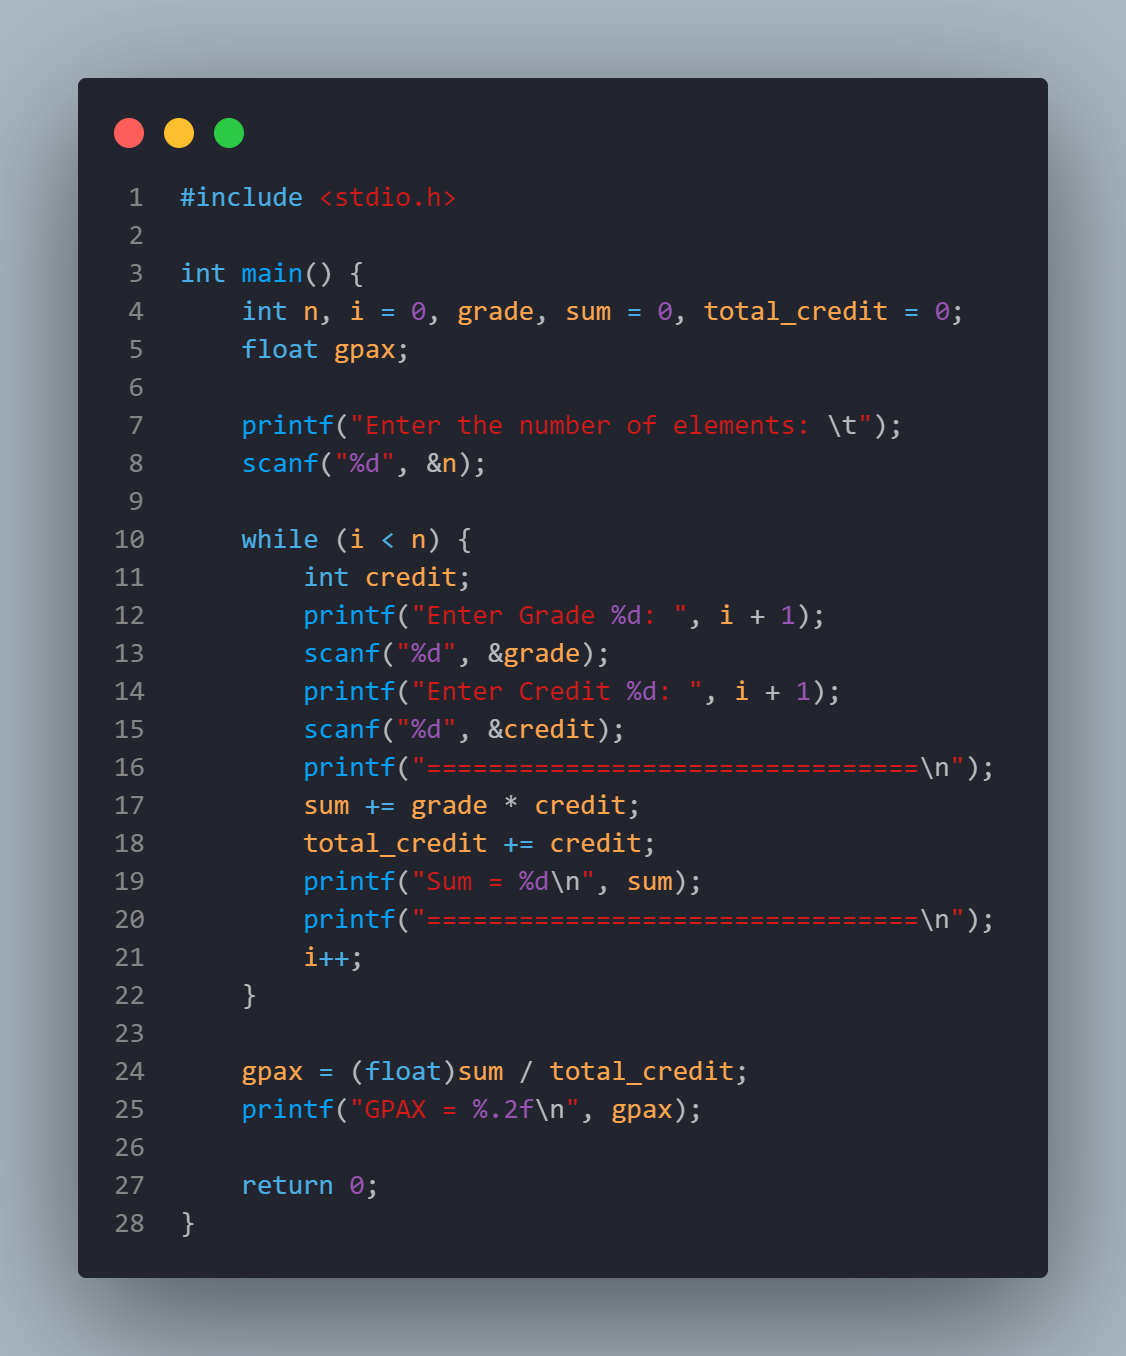
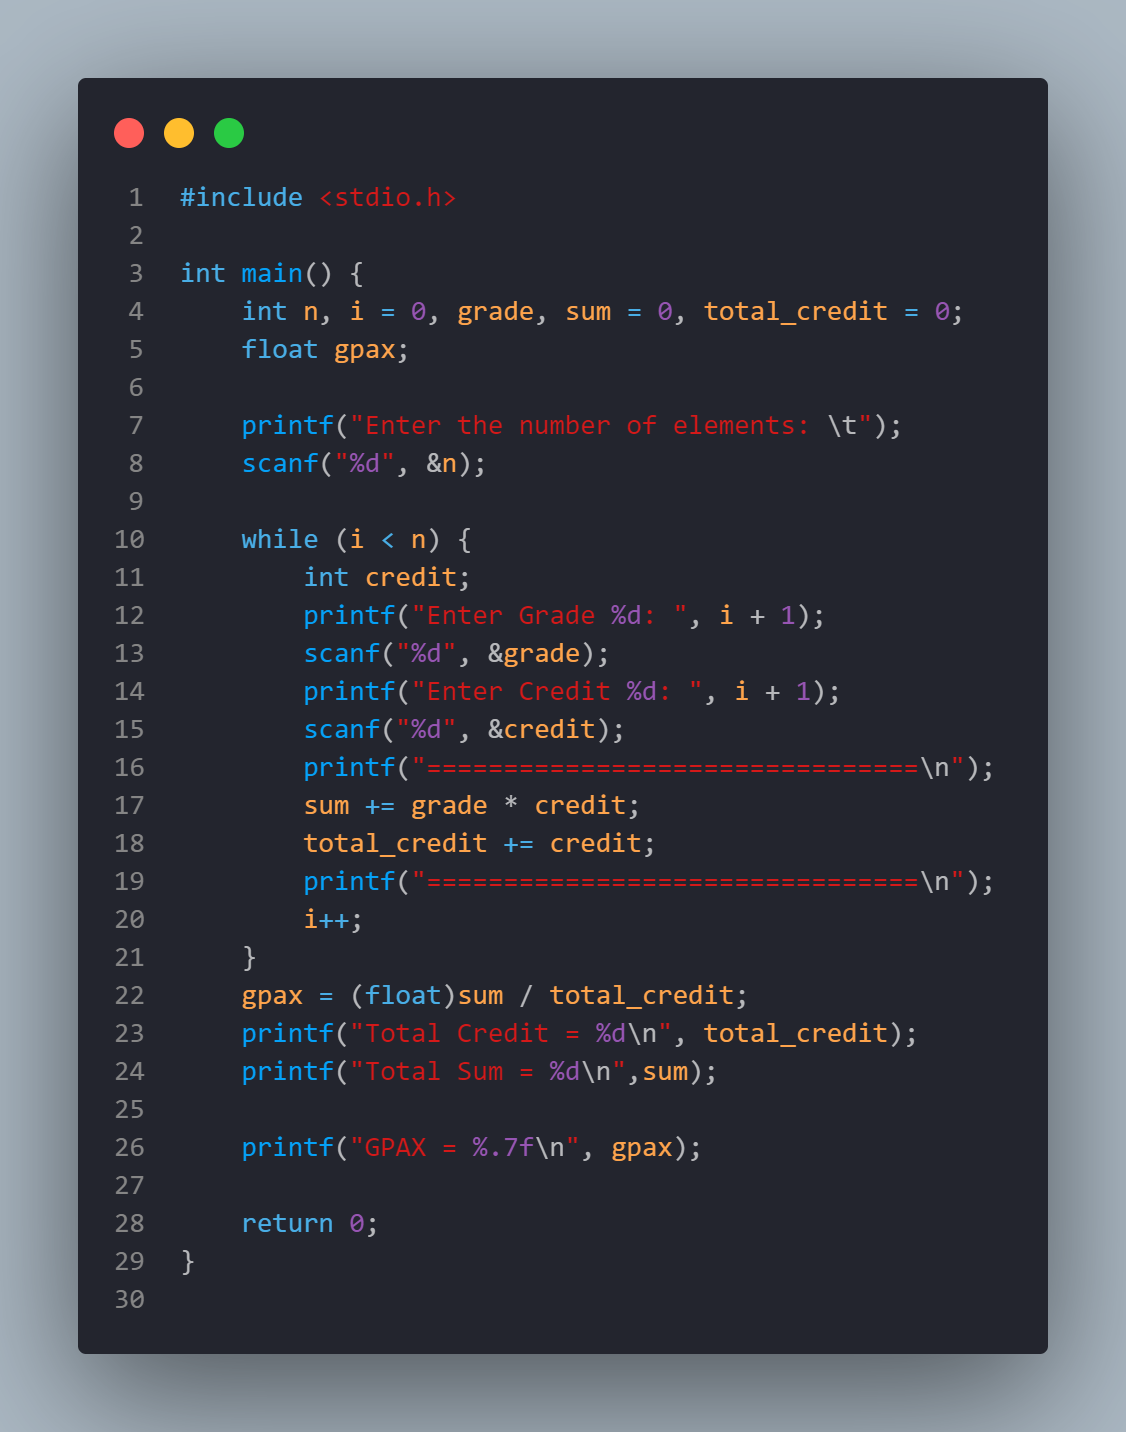
Add files via upload

diff --git a/week_10.cpp b/week_10.cpp
@@ -16,13 +16,14 @@ int main() {
         printf("================================\n");
         sum += grade * credit; 
         total_credit += credit;
-        printf("Sum = %d\n", sum);
         printf("================================\n");
         i++;  
     }
-
     gpax = (float)sum / total_credit;
-    printf("GPAX = %.2f\n", gpax);
+    printf("Total Credit = %d\n", total_credit);
+    printf("Total Sum = %d\n",sum);
+    
+    printf("GPAX = %.7f\n", gpax);
 
     return 0;
 }
